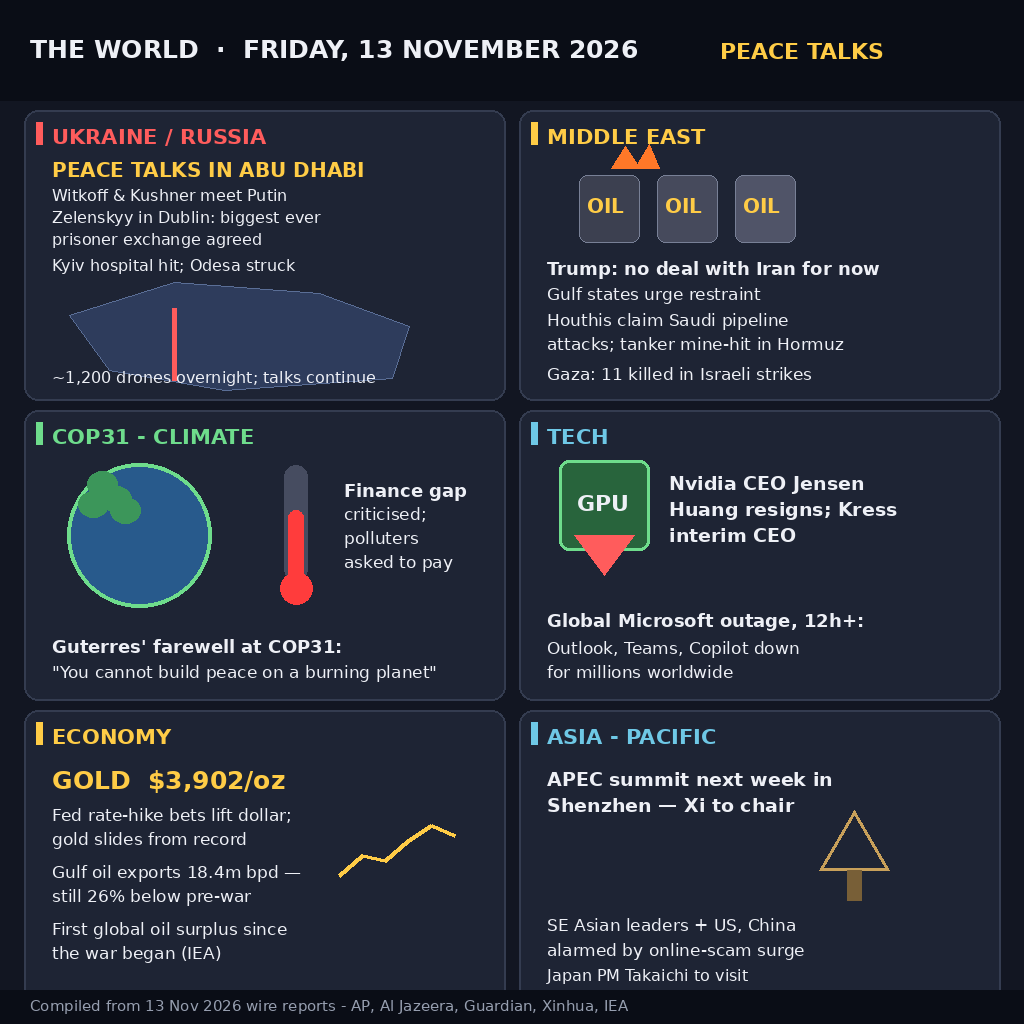
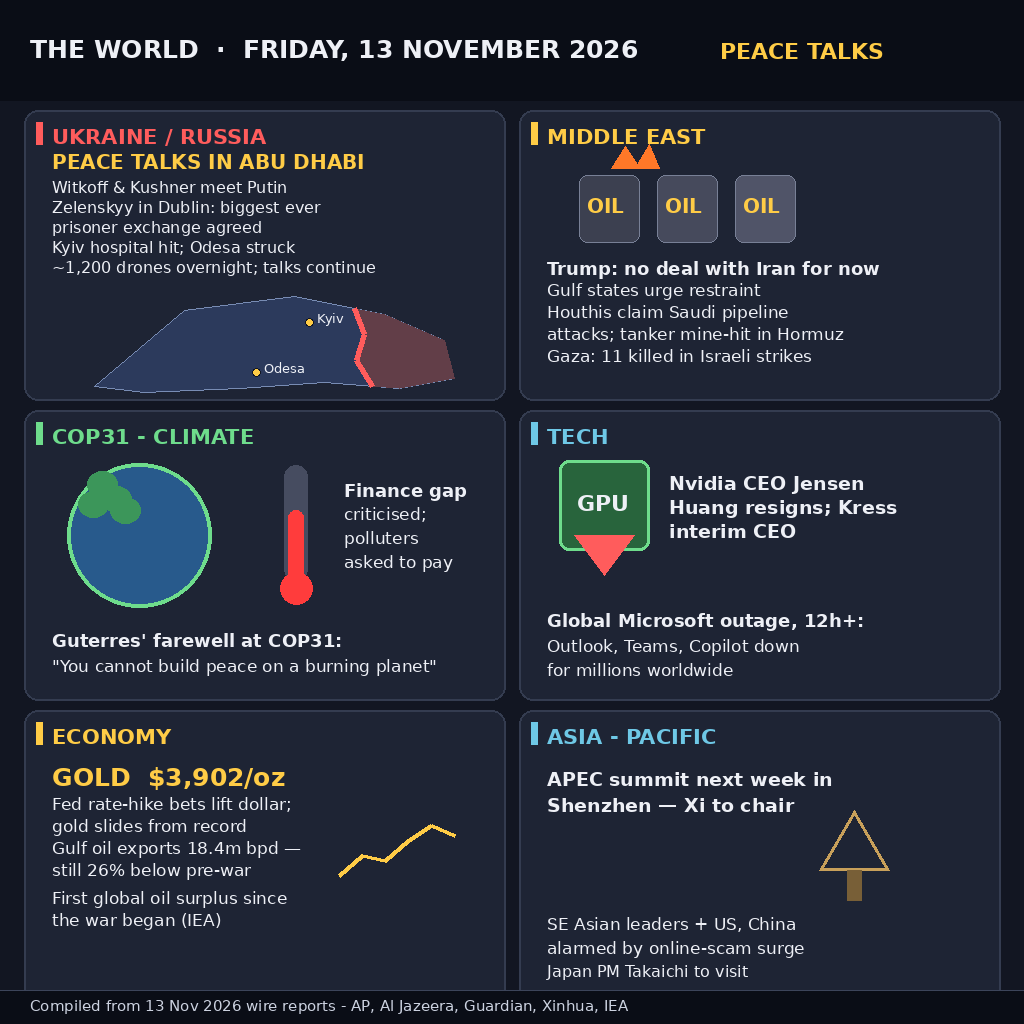
polish: Ukraine map readability, spacing, footer contrast

diff --git a/draw_entry.py b/draw_entry.py
@@ -1,0 +1,143 @@
+# Draw the 13 Nov 2026 world-news front page: 1024x1024 PNG via Pillow
+# with programmatic bounds checks: every text line must fit its panel.
+from PIL import Image, ImageDraw, ImageFont
+
+W = H = 1024
+img = Image.new("RGB", (W, H), (18, 22, 34))
+d = ImageDraw.Draw(img)
+
+FB = "/usr/share/fonts/truetype/dejavu/DejaVuSans-Bold.ttf"
+FR = "/usr/share/fonts/truetype/dejavu/DejaVuSans.ttf"
+def f(sz, bold=True): return ImageFont.truetype(FB if bold else FR, sz)
+
+checks = []
+def txt(x, y, s, sz=19, bold=False, col=(238, 240, 246), x1=999, y1=999):
+    fo = f(sz, bold)
+    d.text((x, y), s, font=fo, fill=col)
+    w = d.textlength(s, font=fo)
+    checks.append((s, x + w <= x1, y + sz + 6 <= y1))
+    return w
+
+INK = (238, 240, 246); MUT = (150, 158, 175); ACC = (255, 92, 92)
+YEL = (255, 204, 70); GRN = (110, 220, 140); CYA = (110, 200, 230)
+FOOT = (204, 210, 224)
+
+def panel(x0, y0, x1, y1, title, col):
+    d.rounded_rectangle([x0, y0, x1, y1], 14, fill=(30, 36, 52))
+    d.rounded_rectangle([x0, y0, x1, y1], 14, outline=(52, 60, 80), width=2)
+    d.rectangle([x0 + 12, y0 + 12, x0 + 18, y0 + 34], fill=col)
+    txt(x0 + 28, y0 + 14, title.upper(), 21, True, col, x1, y1)
+
+# Masthead
+d.rectangle([0, 0, W, 100], fill=(10, 13, 22))
+txt(30, 34, "THE WORLD  ·  FRIDAY, 13 NOVEMBER 2026", 25, True, INK, 705, 100)
+txt(720, 38, "PEACE TALKS", 22, True, YEL, 1000, 100)
+
+P = [(24, 110, 505, 400), (519, 110, 1000, 400),
+     (24, 410, 505, 700), (519, 410, 1000, 700),
+     (24, 710, 505, 1000), (519, 710, 1000, 1000)]
+
+# 1. UKRAINE
+x0, y0, x1, y1 = P[0]
+panel(x0, y0, x1, y1, "Ukraine / Russia", ACC)
+txt(x0 + 28, y0 + 40, "PEACE TALKS IN ABU DHABI", 20, True, YEL, x1, y1)
+txt(x0 + 28, y0 + 68, "Witkoff & Kushner meet Putin", 16, False, INK, x1, y1)
+txt(x0 + 28, y0 + 88, "Zelenskyy in Dublin: biggest ever", 16, False, INK, x1, y1)
+txt(x0 + 28, y0 + 108, "prisoner exchange agreed", 16, False, INK, x1, y1)
+txt(x0 + 28, y0 + 128, "Kyiv hospital hit; Odesa struck", 16, False, INK, x1, y1)
+txt(x0 + 28, y0 + 148, "~1,200 drones overnight; talks continue", 16, False, INK, x1, y1)
+
+# Ukraine map: full-width band at panel bottom. West = blue (held),
+# east = maroon (occupied), divided by a red front line.
+ukr = [(x0 + 70, y0 + 276), (x0 + 160, y0 + 200), (x0 + 270, y0 + 186),
+       (x0 + 360, y0 + 204), (x0 + 420, y0 + 230), (x0 + 430, y0 + 268),
+       (x0 + 375, y0 + 278), (x0 + 300, y0 + 272), (x0 + 215, y0 + 278),
+       (x0 + 120, y0 + 282)]
+d.polygon(ukr, fill=(44, 58, 92), outline=(120, 140, 180))
+front = [(x0 + 330, y0 + 198), (x0 + 340, y0 + 224), (x0 + 332, y0 + 250),
+         (x0 + 348, y0 + 276)]
+east = front + [(x0 + 375, y0 + 278), (x0 + 430, y0 + 268), (x0 + 420, y0 + 230),
+                (x0 + 360, y0 + 204)]
+d.polygon(east, fill=(98, 62, 72), outline=None)
+d.line(front, fill=ACC, width=5)
+d.ellipse([x0 + 281, y0 + 208, x0 + 289, y0 + 216], fill=YEL, outline=(18, 22, 34))
+txt(x0 + 293, y0 + 200, "Kyiv", 13, False, INK, x1, y1)
+d.ellipse([x0 + 228, y0 + 258, x0 + 236, y0 + 266], fill=YEL, outline=(18, 22, 34))
+txt(x0 + 240, y0 + 250, "Odesa", 13, False, INK, x1, y1)
+
+# 2. MIDDLE EAST
+x0, y0, x1, y1 = P[1]
+panel(x0, y0, x1, y1, "Middle East", YEL)
+for i, c in enumerate([(60, 64, 80), (70, 74, 92), (80, 84, 104)]):
+    d.rounded_rectangle([x0 + 60 + i * 78, y0 + 65, x0 + 120 + i * 78, y0 + 132], 8, fill=c, outline=(120, 128, 150))
+    txt(x0 + 68 + i * 78, y0 + 84, "OIL", 20, True, YEL, x1, y1)
+d.polygon([(x0 + 92, y0 + 58), (x0 + 106, y0 + 36), (x0 + 118, y0 + 54), (x0 + 130, y0 + 34), (x0 + 140, y0 + 58)], fill=(255, 120, 40))
+txt(x0 + 28, y0 + 148, "Trump: no deal with Iran for now", 18, True, INK, x1, y1)
+txt(x0 + 28, y0 + 170, "Gulf states urge restraint", 17, False, INK, x1, y1)
+txt(x0 + 28, y0 + 192, "Houthis claim Saudi pipeline", 17, False, INK, x1, y1)
+txt(x0 + 28, y0 + 214, "attacks; tanker mine-hit in Hormuz", 17, False, INK, x1, y1)
+txt(x0 + 28, y0 + 236, "Gaza: 11 killed in Israeli strikes", 17, False, INK, x1, y1)
+
+# 3. COP31
+x0, y0, x1, y1 = P[2]
+panel(x0, y0, x1, y1, "COP31 - Climate", GRN)
+cx, cy, r = x0 + 115, y0 + 125, 72
+d.ellipse([cx - r, cy - r, cx + r, cy + r], fill=(40, 90, 140), outline=GRN, width=4)
+for a, b in [(0.35, 0.15), (0.6, 0.4), (0.2, 0.5), (0.75, 0.6)]:
+    d.ellipse([cx - r + a * 2 * r * 0.4, cy - r + b * 2 * r * 0.4,
+               cx - r + a * 2 * r * 0.4 + 30, cy - r + b * 2 * r * 0.4 + 26], fill=(60, 150, 90))
+d.rounded_rectangle([x0 + 260, y0 + 55, x0 + 283, y0 + 170], 11, fill=(70, 76, 96))
+d.ellipse([x0 + 256, y0 + 162, x0 + 288, y0 + 194], fill=(255, 60, 60))
+d.rounded_rectangle([x0 + 264, y0 + 100, x0 + 279, y0 + 176], 8, fill=(255, 60, 60))
+txt(x0 + 320, y0 + 70, "Finance gap", 18, True, INK, x1, y1)
+txt(x0 + 320, y0 + 94, "criticised;", 17, False, INK, x1, y1)
+txt(x0 + 320, y0 + 118, "polluters", 17, False, INK, x1, y1)
+txt(x0 + 320, y0 + 142, "asked to pay", 17, False, INK, x1, y1)
+txt(x0 + 28, y0 + 220, "Guterres' farewell at COP31:", 18, True, INK, x1, y1)
+txt(x0 + 28, y0 + 246, '"You cannot build peace on a burning planet"', 17, False, INK, x1, y1)
+
+# 4. TECH
+x0, y0, x1, y1 = P[3]
+panel(x0, y0, x1, y1, "Tech", CYA)
+d.rounded_rectangle([x0 + 40, y0 + 50, x0 + 130, y0 + 140], 10, fill=(40, 100, 60), outline=GRN, width=3)
+txt(x0 + 58, y0 + 80, "GPU", 22, True, INK, x1, y1)
+d.polygon([(x0 + 85, y0 + 165), (x0 + 55, y0 + 125), (x0 + 115, y0 + 125)], fill=ACC)
+txt(x0 + 150, y0 + 62, "Nvidia CEO Jensen", 19, True, INK, x1, y1)
+txt(x0 + 150, y0 + 86, "Huang resigns; Kress", 19, True, INK, x1, y1)
+txt(x0 + 150, y0 + 110, "interim CEO", 19, True, INK, x1, y1)
+txt(x0 + 28, y0 + 200, "Global Microsoft outage, 12h+:", 18, True, INK, x1, y1)
+txt(x0 + 28, y0 + 226, "Outlook, Teams, Copilot down", 17, False, INK, x1, y1)
+txt(x0 + 28, y0 + 250, "for millions worldwide", 17, False, INK, x1, y1)
+
+# 5. ECONOMY
+x0, y0, x1, y1 = P[4]
+panel(x0, y0, x1, y1, "Economy", YEL)
+txt(x0 + 28, y0 + 52, "GOLD  $3,902/oz", 25, True, YEL, x1, y1)
+txt(x0 + 28, y0 + 84, "Fed rate-hike bets lift dollar;", 17, False, INK, x1, y1)
+txt(x0 + 28, y0 + 106, "gold slides from record", 17, False, INK, x1, y1)
+txt(x0 + 28, y0 + 128, "Gulf oil exports 18.4m bpd —", 17, False, INK, x1, y1)
+txt(x0 + 28, y0 + 150, "still 26% below pre-war", 17, False, INK, x1, y1)
+txt(x0 + 28, y0 + 178, "First global oil surplus since", 17, False, INK, x1, y1)
+txt(x0 + 28, y0 + 200, "the war began (IEA)", 17, False, INK, x1, y1)
+pts = [(x0 + 315 + i * 23, y0 + 175 - v) for i, v in enumerate([10, 30, 25, 45, 60, 50])]
+d.line(pts, fill=YEL, width=4)
+
+# 6. ASIA
+x0, y0, x1, y1 = P[5]
+panel(x0, y0, x1, y1, "Asia - Pacific", CYA)
+txt(x0 + 28, y0 + 58, "APEC summit next week in", 19, True, INK, x1, y1)
+txt(x0 + 28, y0 + 84, "Shenzhen — Xi to chair", 19, True, INK, x1, y1)
+d.polygon([(x0 + 300, y0 + 160), (x0 + 335, y0 + 100), (x0 + 370, y0 + 160)], outline=(200, 160, 90), width=3)
+d.rectangle([x0 + 328, y0 + 160, x0 + 342, y0 + 190], fill=(120, 95, 55))
+txt(x0 + 28, y0 + 204, "SE Asian leaders + US, China", 17, False, INK, x1, y1)
+txt(x0 + 28, y0 + 228, "alarmed by online-scam surge", 17, False, INK, x1, y1)
+txt(x0 + 28, y0 + 252, "Japan PM Takaichi to visit", 16, False, INK, x1, y1)
+
+# Footer
+d.rectangle([0, H - 34, W, H], fill=(10, 13, 22))
+d.line([(0, H - 34), (W, H - 34)], fill=(60, 68, 90), width=1)
+txt(30, H - 27, "Compiled from 13 Nov 2026 wire reports - AP, Al Jazeera, Guardian, Xinhua, IEA", 15, False, FOOT, W, H)
+
+bad = [c for c in checks if not (c[1] and c[2])]
+img.save("/home/agentuser/news-image-repo/entry.png", optimize=True)
+print("saved; bound violations:", bad)
